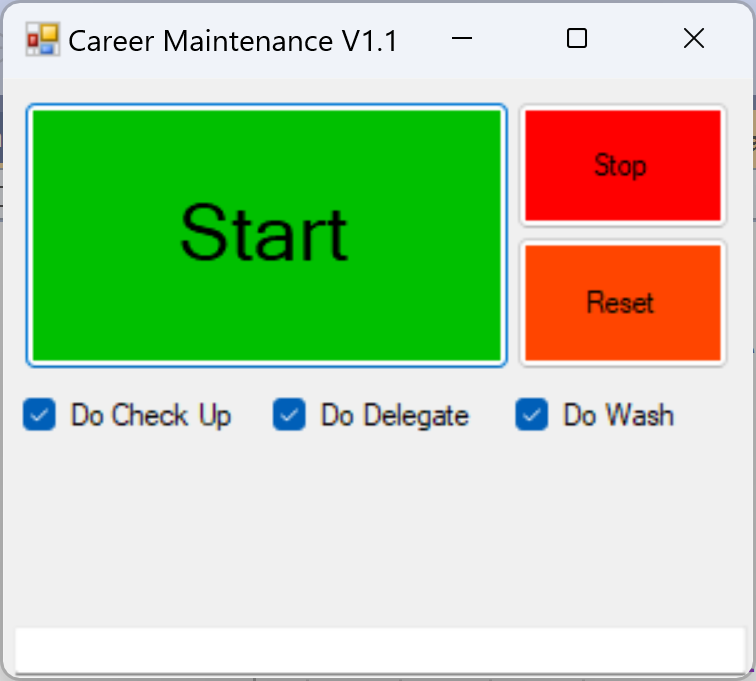
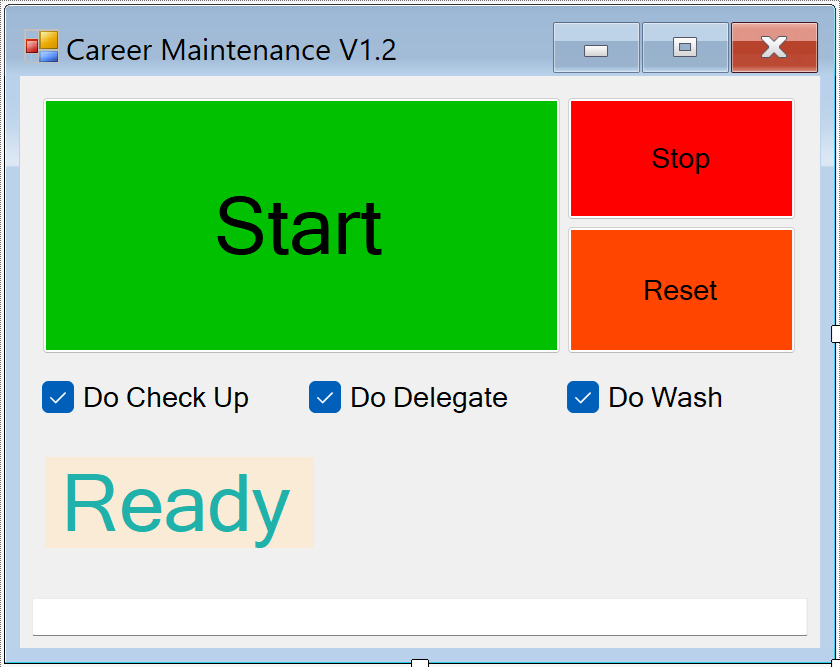
SU2 Adaption
- Active CheckUp Color adapted

diff --git a/CareerMaintenance/CareerMaintenanceScript.cs b/CareerMaintenance/CareerMaintenanceScript.cs
@@ -97,7 +97,7 @@ namespace CareerAutomationTests
         static CareerPosAndColor cWashSelected = new CareerPosAndColor(190, 1730, 203, 203, 203);  //203+/-52 (232,232,232)
 
         static CareerPosAndColor cCheckUpInactive = new CareerPosAndColor(190, 1535, 59, 90, 96);
-        static CareerPosAndColor cCheckUpActive = new CareerPosAndColor(190, 1535, 53, 78, 137);
+        static CareerPosAndColor cCheckUpActive = new CareerPosAndColor(190, 1535, 28, 78, 137);
         static CareerPosAndColor cCheckUpSelected = new CareerPosAndColor(190, 1535, 203, 203, 203);  //203+/-52 (232,232,232)
 
         static CareerPosAndColor cDelegateInactive = new CareerPosAndColor(765, 1535, 25, 48, 64);

diff --git a/CareerMaintenance/CareerMaintenanceForm.Designer.cs b/CareerMaintenance/CareerMaintenanceForm.Designer.cs
@@ -154,7 +154,7 @@
             this.Controls.Add(this.StatusTextBox);
             this.Controls.Add(this.ExecuteMaintenanceButton);
             this.Name = "CareerMaintenanceForm";
-            this.Text = "Career Maintenance V1.1";
+            this.Text = "Career Maintenance V1.2";
             this.FormClosing += new System.Windows.Forms.FormClosingEventHandler(this.CareerMaintenanceForm_FormClosing);
             this.Shown += new System.EventHandler(this.CareerMaintenanceForm_Shown);
             this.ResumeLayout(false);
